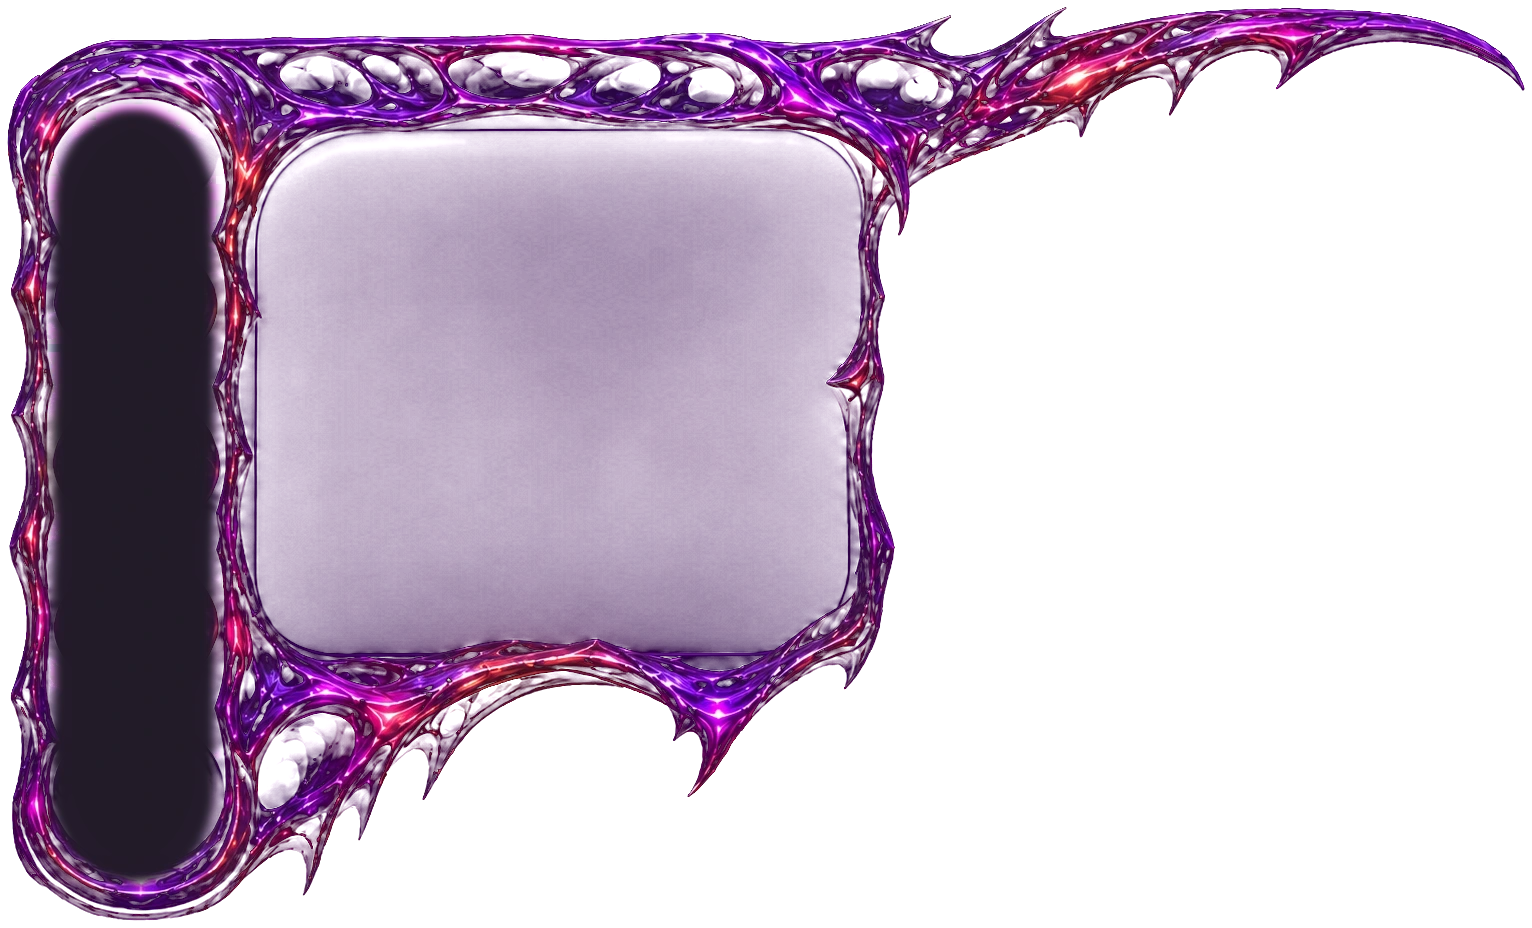
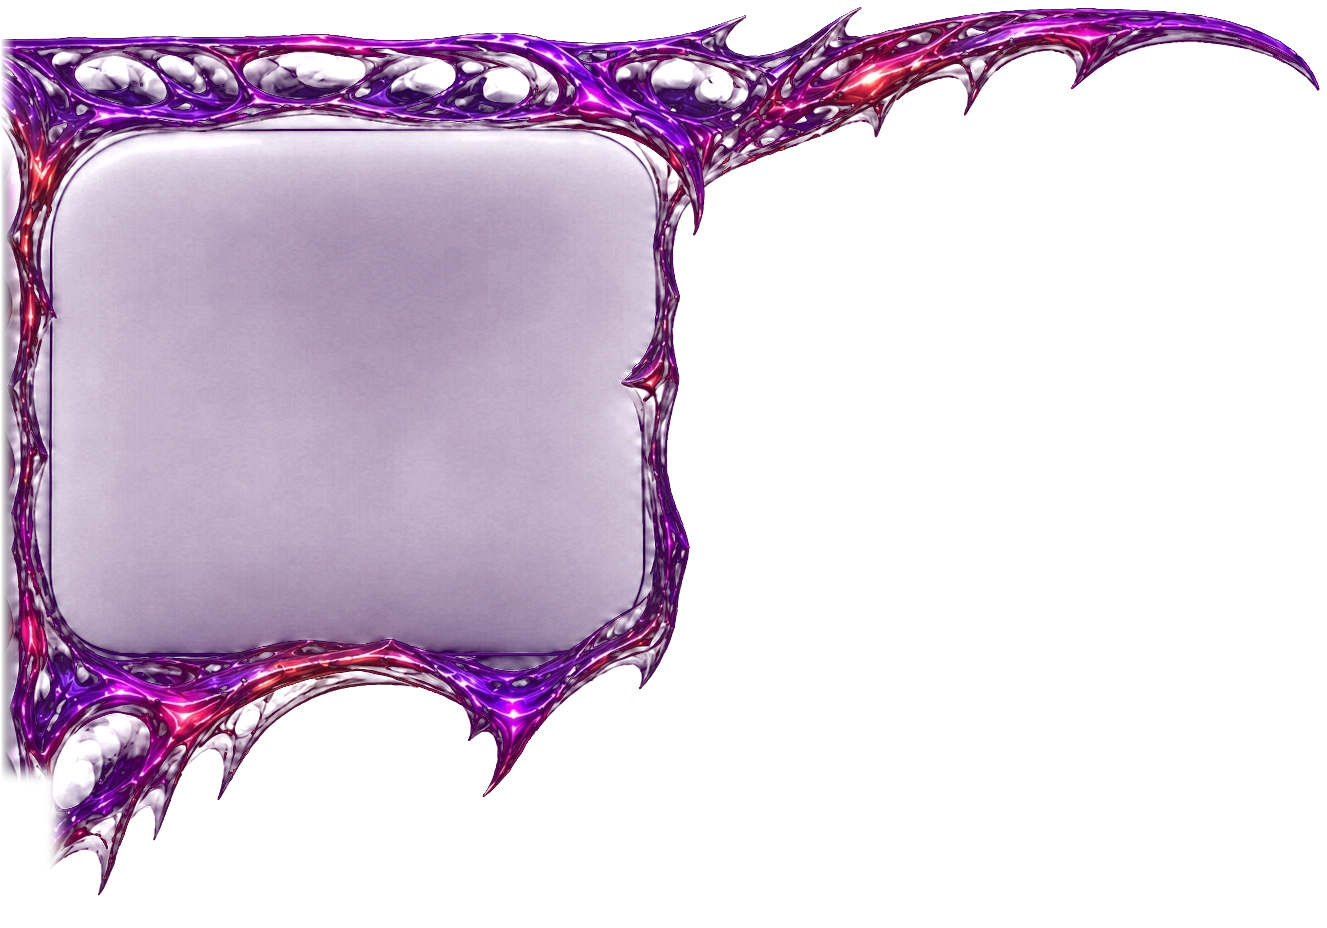
Enjambre: ojos verdes y gas en la boca del personaje; sin columna vacía; progreso solo con la barra de ADN grande
Claude-Session: https://claude.ai/code/session_01F2cMaVP1jXDcnxjASp53K6

diff --git a/enjambre/index.html b/enjambre/index.html
@@ -643,6 +643,10 @@ body.con-maqueta #side{z-index:6;top:calc(60px*var(--s,1))}
 #maqueta .mq-tutor::after,#maqueta .mq-progreso::after{content:"";position:absolute;inset:0;z-index:-1;pointer-events:none;background:url(maqueta2/tutor.webp) 0 0/100% 100% no-repeat}
 #maqueta .mq-progreso::after{background-image:url(maqueta2/progreso.webp)}
 #maqueta .mq-tutor::before{inset:14% 1.8% 5% 1.8%}#maqueta .mq-progreso::before{inset:5% 2.6% 5% 2.6%}
+#maqueta .mq-progreso.mq-adnp{display:flex;flex-direction:column;align-items:center;justify-content:center;gap:calc(6px*var(--s));padding:0}
+#maqueta .mq-progreso.mq-adnp::after{display:none}#maqueta .mq-progreso.mq-adnp::before{inset:-6% -4%;border-radius:50%;background:radial-gradient(closest-side,rgba(12,5,18,.88) 55%,rgba(12,5,18,.55) 78%,transparent)}
+.mq-adnp .mq-adnbar{width:100%;margin:0}
+.mq-adnt{font-size:calc(17px*var(--s));color:#cbbad6;letter-spacing:.04em;text-shadow:0 1px 6px rgba(0,0,0,.9)}.mq-adnt b{color:#fff;font-weight:600;margin-left:.3em}
 #maqueta .mq-anillo b{position:relative;color:#8CDE46;text-shadow:0 0 8px rgba(96,189,36,.6)}
 
 /* portada a pantalla completa, sin franjas ni deformar: el arte ocupa todo el ancho (proporción 2:1 intacta);
@@ -1473,7 +1477,7 @@ function maquetaDraw(){
   const xs=studyOrder(), done=xs.filter(x=>(x.state||0)>=2).length, e=nextExercise(), t=e&&T(primTopic(e));
   const L=LAY||layout(), awake=DB.topics.filter(q=>mastery(q.id).n).length, pct=Math.round(L.g*100);
   const cnt=id=>{ const all=DB.exercises.filter(x=>x.topics.includes(id)); return [all.filter(x=>(x.state||0)>=2).length, all.length]; };
-  let h=`<img class="mq-fondo" src="maqueta2/fondo-4k.png" alt="" draggable="false">${MQ_VIVO}`+`<img class="mq-marco" src="maqueta2/marco-abajo.webp" alt="" draggable="false" style="left:${X(762)};top:${Y(628)};width:${X(1007)}">`+`<img class="mq-marco" src="maqueta2/marco-izq.webp" alt="" draggable="false" style="left:${X(1.5)};top:${Y(24.8)};width:${X(934)}">`;
+  let h=`<img class="mq-fondo" src="maqueta2/fondo-4k.png" alt="" draggable="false">${MQ_VIVO}`+`<img class="mq-marco" src="maqueta2/marco-abajo.webp" alt="" draggable="false" style="left:${X(762)};top:${Y(628)};width:${X(1007)}">`+`<img class="mq-marco" src="maqueta2/marco-izq.webp" alt="" draggable="false" style="left:${X(1.5)};top:${Y(24.8)};width:${X(809.1)}">`;
   // barra superior pintada: zonas activas sobre las pestañas y el emblema
   h+=`<a class="mq-hot mq-logo" href="../bitacora.html" title="Físicas · volver a la bitácora" style="left:${X(20)};top:0;width:${X(250)};height:${Y(46)}"></a>`;
   for(const [v,x,w] of MQ.tabs) h+=`<button class="mq-hot" data-tab="${v}" title="${v==='data'?'Datos y ajustes':''}" style="left:${X(x-w/2)};top:0;width:${X(w)};height:${Y(46)}"></button>`;
@@ -1485,22 +1489,21 @@ function maquetaDraw(){
   // los huevos latentes (temas sin célula) se mudaron a Invasión: la portada entra en una sola pantalla
   const su=document.getElementById('mq-suelo'); if(su) su.remove();
   // panel «sigue por aquí»
-  h+=`<div class="mq-panel" style="left:${X(158)};top:${Y(102)};width:${X(372)};height:${Y(338)}">`+(e?`<div class="mq-k">Sigue por aquí</div><div class="mq-ch">${esc(e.num||'')}${t?' · '+esc(t.name):''}</div><h2>${esc(e.title)}</h2>
+  h+=`<div class="mq-panel" style="left:${X(33)};top:${Y(102)};width:${X(372)};height:${Y(338)}">`+(e?`<div class="mq-k">Sigue por aquí</div><div class="mq-ch">${esc(e.num||'')}${t?' · '+esc(t.name):''}</div><h2>${esc(e.title)}</h2>
       <p class="mq-sub">${e.prio==='clave'?'Ejercicio clave: no te lo saltes.':(e.state===1?'Lo dejaste a medias.':'La colonia muta con cada ejercicio que resuelves.')}</p>
       <button class="mq-go" data-study="${e.id}">${e.state===1?'Retomar':'Empezar'} <span aria-hidden="true">→</span></button>`:`<div class="mq-k">Todo resuelto</div><h2>La colonia está saciada.</h2>`)
     +`<p class="mq-nota">${done} de ${xs.length} resueltos. Cada par de bases del ADN es un ejercicio, agrupados por tema como en Estudiar. Toca un organismo para ver sus ejercicios.</p></div>`;
   // abajo: «Tu Tutor» y «Tu progreso» (el personaje va a la izquierda, ver personaje.js); arriba a la derecha, el contador
-  const pr=xs.length?Math.round(100*done/xs.length):0;
   const tutor=e?`Te toca <b>${esc(e.title)}</b>${t?` (${esc(t.name)})`:''}.`:'Resolviste todo lo que hay en la colmena. Pásame más ejercicios para que evolucione.';
   h+=`<div class="mq-tutor" style="left:${X(590)};top:${Y(800)};width:${X(670)};height:${Y(181)}"><span class="mq-tt">Tu Tutor</span>
       <p><strong>¡Bienvenido, explorador!</strong><br>Aquí comienza tu viaje por el enjambre del conocimiento. Selecciona una <em>célula</em> y sigue aprendiendo.</p>
       <p class="mq-tmas">${tutor} ${done} de ${xs.length} ejercicios resueltos · ${awake} de ${DB.topics.length} temas despiertos. Cada par de bases del ADN es un ejercicio.</p>
       <button class="mq-tbtn" aria-label="Más" aria-expanded="false" onclick="const c=this.closest('.mq-tutor');this.setAttribute('aria-expanded',c.classList.toggle('abierto'))"><svg viewBox="0 0 20 12"><path d="M2 2l8 8 8-8"/></svg></button></div>`;
-  // progreso solo abajo: anillo + conteo + la barra de ADN de Andreé (peldaños en verde según lo resuelto, de izquierda a derecha)
+  // progreso solo abajo: la barra de ADN de Andreé, grande (peldaños en verde según lo resuelto) y el conteo debajo
   const borde=(9.45+83.6*(xs.length?done/xs.length:0)).toFixed(2);
-  h+=`<div class="mq-progreso" style="left:${X(1430)};top:${Y(812)};width:${X(318)};height:${Y(150)}"><span class="mq-pk">Tu progreso</span>
-      <div class="mq-anillo" style="--p:${Math.max(1,pr)}"><b>${pr}%</b></div><div class="mq-pn"><b>${done} / ${xs.length}</b>Ejercicios
-      <div class="mq-adnbar" title="${done} de ${xs.length} ejercicios resueltos"><img src="maqueta2/adn-barra.webp" alt="" draggable="false"><img class="mq-adnv" src="maqueta2/adn-barra-verde.webp" alt="" draggable="false" style="clip-path:inset(0 calc(100% - ${borde}%) 0 0)"></div></div></div>`;
+  h+=`<div class="mq-progreso mq-adnp" style="left:${X(1412)};top:${Y(812)};width:${X(346)};height:${Y(150)}" title="${done} de ${xs.length} ejercicios resueltos">
+      <div class="mq-adnbar"><img src="maqueta2/adn-barra.webp" alt="" draggable="false"><img class="mq-adnv" src="maqueta2/adn-barra-verde.webp" alt="" draggable="false" style="clip-path:inset(0 calc(100% - ${borde}%) 0 0)"></div>
+      <div class="mq-adnt">Progreso <b>${done} / ${xs.length}</b></div></div>`;
   h+=`<div class="mq-gema" style="left:${X(1530)};top:${Y(10)};width:${X(90)};height:${Y(34)}" title="Ejercicios resueltos"><i></i>${done}</div>`;
   st.innerHTML=h;
   st.querySelectorAll('[data-tab]').forEach(b=>b.onclick=()=>{show(b.dataset.tab); renderAll();});

diff --git a/enjambre/personaje.js b/enjambre/personaje.js
@@ -108,6 +108,58 @@ function animar(t) {
     H[k].scale.setScalar(p);
   }
 }
+// rostro: dos ojos verdes pequeños pero muy notorios y un poco de gas verde que sale de la boca.
+// Van colgados del hueso de la cabeza, así siguen sus movimientos.
+const VERDE = new THREE.Color(0x8cde46);
+let ojos = [], gas = null;
+function brillo() {
+  const c = document.createElement('canvas'); c.width = c.height = 64;
+  const g = c.getContext('2d'), r = g.createRadialGradient(32, 32, 0, 32, 32, 32);
+  r.addColorStop(0, 'rgba(255,255,255,1)'); r.addColorStop(0.25, 'rgba(255,255,255,.55)'); r.addColorStop(1, 'rgba(255,255,255,0)');
+  g.fillStyle = r; g.fillRect(0, 0, 64, 64);
+  const t = new THREE.CanvasTexture(c); t.colorSpace = THREE.SRGBColorSpace; return t;
+}
+function rostro() {
+  const cabeza = H.cabeza; if (!cabeza) return;
+  const tex = brillo();
+  const matOjo = new THREE.MeshBasicMaterial({ color: new THREE.Color(0xc8ff7a), toneMapped: false });
+  // coordenadas medidas en el espacio del hueso de la cabeza, a los lados del hocico
+  for (const [x, y, z] of [[-0.0522, -0.1864, 0.3063], [-0.0083, -0.1879, 0.3148]]) {
+    const g = new THREE.Group(); g.position.set(x, y, z);
+    const bola = new THREE.Mesh(new THREE.SphereGeometry(0.0062, 16, 12), matOjo); g.add(bola);
+    const halo = new THREE.Sprite(new THREE.SpriteMaterial({ map: tex, color: VERDE, blending: THREE.AdditiveBlending, depthWrite: false, toneMapped: false }));
+    halo.scale.setScalar(0.04); g.add(halo);
+    cabeza.add(g); ojos.push({ g, halo });
+  }
+  // gas: partículas suaves que salen de la boca, suben y se deshacen
+  const N = 60, pos = new Float32Array(N * 3), vida = new Float32Array(N), vel = new Float32Array(N * 3);
+  const geo = new THREE.BufferGeometry(); geo.setAttribute('position', new THREE.BufferAttribute(pos, 3));
+  const mat = new THREE.PointsMaterial({ map: tex, color: VERDE, size: 0.07, transparent: true, opacity: 0.35, blending: THREE.AdditiveBlending, depthWrite: false, sizeAttenuation: true, toneMapped: false });
+  const pts = new THREE.Points(geo, mat); pts.frustumCulled = false;
+  const origen = new THREE.Vector3(-0.0284, -0.2096, 0.3);
+  gas = { pts, pos, vida, vel, origen, N };
+  for (let i = 0; i < N; i++) vida[i] = Math.random();
+  cabeza.add(pts);
+}
+function animarRostro(t) {
+  for (const [i, o] of ojos.entries()) { // parpadeo de luz, no de forma
+    const k = reducido ? 1 : 0.85 + 0.15 * Math.sin(t * 3.1 + i) + (Math.sin(t * 0.7) > 0.985 ? 0.6 : 0);
+    o.halo.scale.setScalar(0.04 * k);
+  }
+  if (!gas || reducido) return;
+  const { pos, vida, vel, origen, N } = gas;
+  for (let i = 0; i < N; i++) {
+    vida[i] += 0.006 + (i % 5) * 0.0012;
+    if (vida[i] >= 1) {
+      vida[i] = 0;
+      pos[i * 3] = origen.x + (Math.random() - 0.5) * 0.02; pos[i * 3 + 1] = origen.y; pos[i * 3 + 2] = origen.z;
+      vel[i * 3] = (Math.random() - 0.5) * 0.0009; vel[i * 3 + 1] = -0.0002 - Math.random() * 0.0005; vel[i * 3 + 2] = 0.0008 + Math.random() * 0.0008;
+    }
+    pos[i * 3] += vel[i * 3] + Math.sin(t * 1.3 + i) * 0.00015; pos[i * 3 + 1] += vel[i * 3 + 1] + vida[i] * 0.0009; pos[i * 3 + 2] += vel[i * 3 + 2];
+  }
+  gas.pts.geometry.attributes.position.needsUpdate = true;
+  gas.pts.material.opacity = 0.28 + 0.1 * Math.sin(t * 1.7);
+}
 const t0 = performance.now();
 
 function tamano() {
@@ -127,6 +179,7 @@ function cuadro() {
   const resp = reducido ? 0 : Math.sin(t * 1.2);
   modelo.scale.set(1 + resp * 0.004, 1 + resp * 0.008, 1 + resp * 0.004);
   animar(t);
+  animarRostro(t);
   tiempo.value = reducido ? 0 : t;
   pulso.value = reducido ? 0.5 : 0.5 + 0.5 * Math.sin(t * 2.0);
   verde.intensity = 0.3 + pulso.value * 0.5;
@@ -152,7 +205,8 @@ function cargar() {
     modelo.add(g.scene);
     escena.add(modelo);
     caja.classList.add('listo');
-    window.__personaje = { render, escena, camara, cuadro, modelo, H, animar, tiempo, pulso };
+    rostro();
+    window.__personaje = { render, escena, camara, cuadro, modelo, H, animar, animarRostro, tiempo, pulso, gas };
     render.setAnimationLoop(cuadro);
   });
 }
